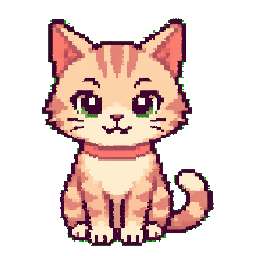
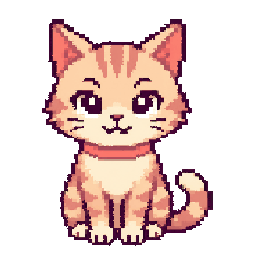
Remove green fringe from cat sprite

diff --git a/src/data/pets.ts b/src/data/pets.ts
@@ -15,7 +15,7 @@ export const PETS: Record<PetKind, PetDefinition> = {
     kind: "cat",
     label: "Cat",
     strapline: "Curious, cuddly and just a little dramatic.",
-    asset: asset("pets/cat.png"),
+    asset: asset("pets/cat.png?v=2"),
     foods: [
       { id: "cat-fish", name: "Fish bites", cost: 3, fullness: 22, happiness: 4, icon: "fish" },
       { id: "cat-chicken", name: "Chicken", cost: 4, fullness: 27, happiness: 6, icon: "chicken" },

diff --git a/public/sw.js b/public/sw.js
@@ -1,4 +1,4 @@
-const CACHE_NAME = "katies-pixel-friend-v3";
+const CACHE_NAME = "katies-pixel-friend-v4";
 
 self.addEventListener("install", () => {
   self.skipWaiting();
